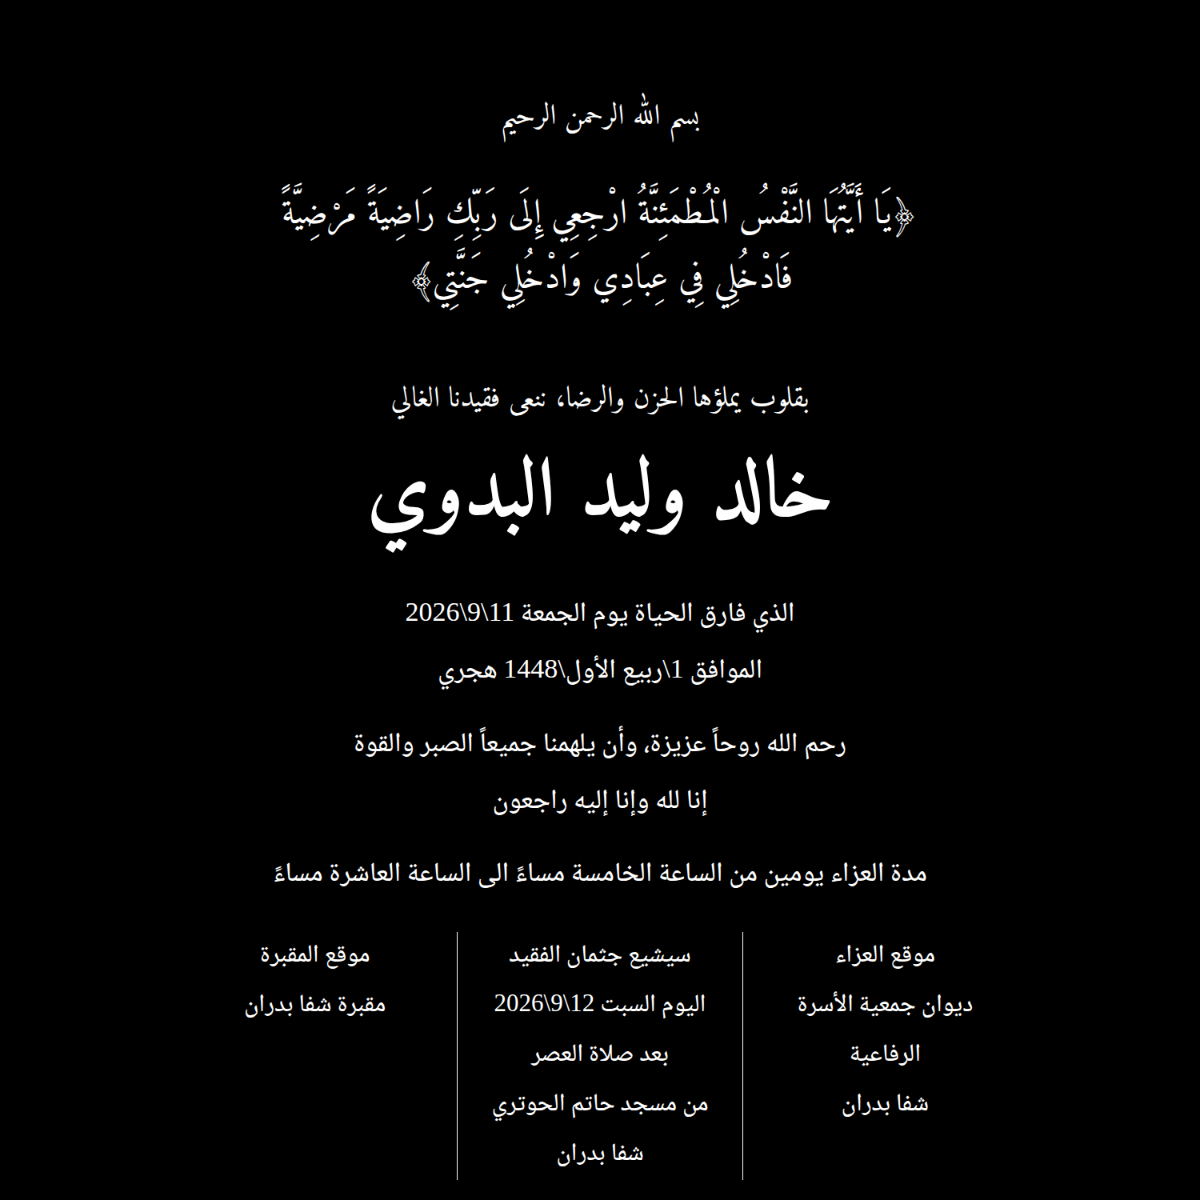
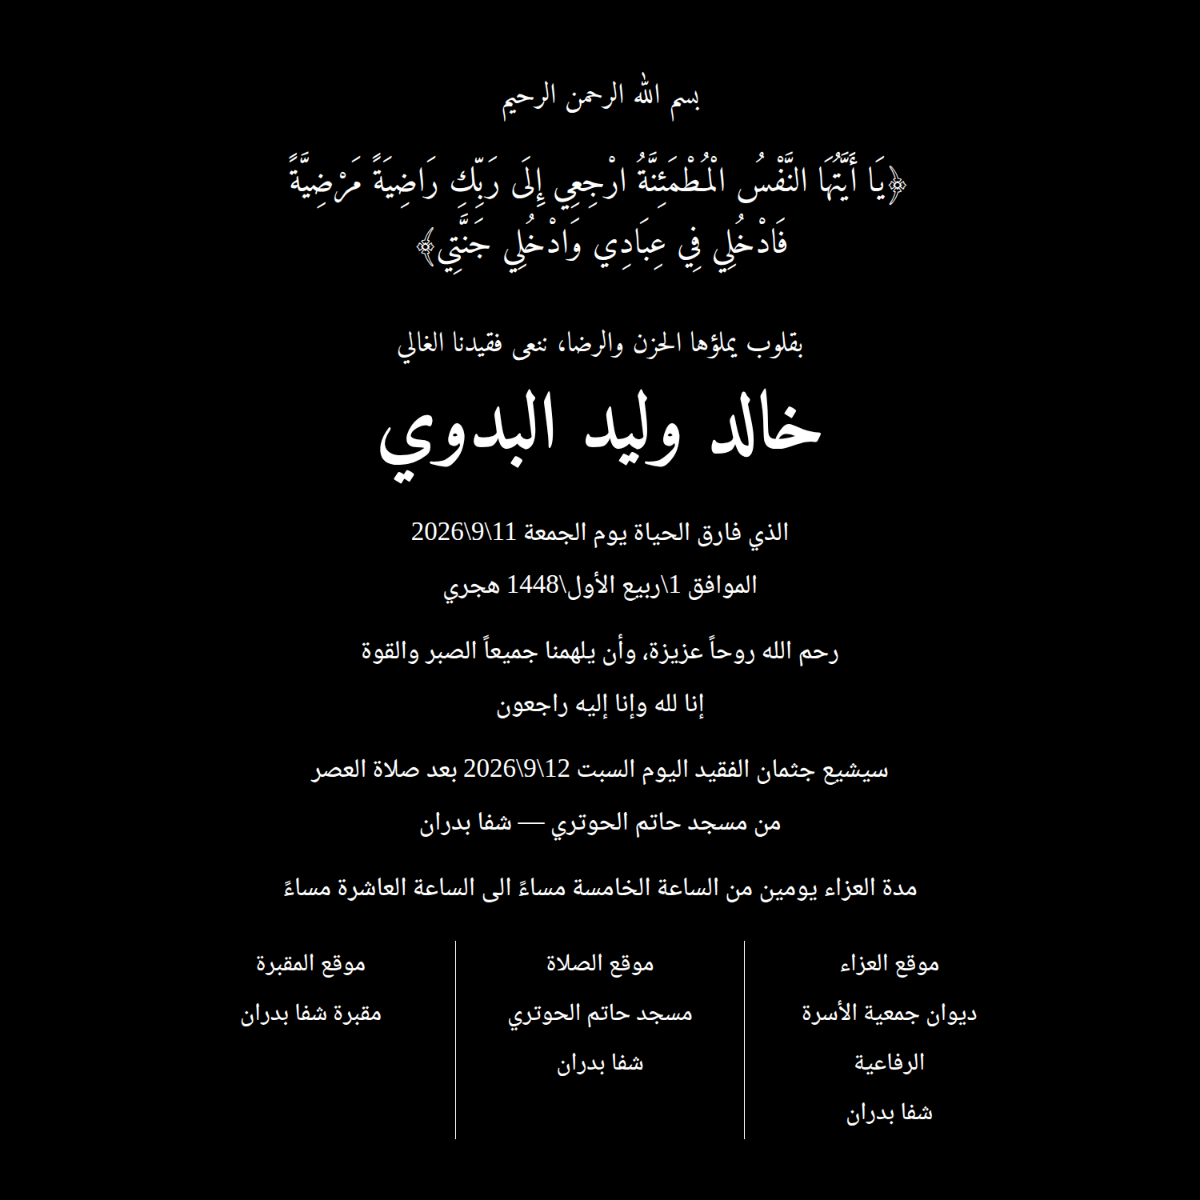
Move the procession line above the condolence hours
The procession is today, so it now reads as its own line in the body of
the card, just before the condolence hours, instead of sitting in the
bottom columns. The middle column becomes the prayer location, keeping
the three venues side by side, and the spacing is tightened so the block
still fits the card.

Claude-Session: https://claude.ai/code/session_01EyBEKd24a4krTEm4YGB4N2

Changed region(s): [[0.185, 0.0617, 0.8325, 0.9558], [0.4625, 0.9558, 0.5242, 0.9867]]

diff --git a/maps/index.html b/maps/index.html
@@ -14,8 +14,8 @@
   <meta property="og:url" content="https://www.wbadawi.info/maps/">
   <meta property="og:locale" content="ar_JO">
   <!-- صورة المعاينة عند مشاركة الرابط (واتساب وغيره) — مربّعة 1200×1200 لتظهر البطاقة كاملة -->
-  <meta property="og:image" content="https://www.wbadawi.info/assets/img/naei/khalid-albadawi-og.png?v=3">
-  <meta property="og:image:secure_url" content="https://www.wbadawi.info/assets/img/naei/khalid-albadawi-og.png?v=3">
+  <meta property="og:image" content="https://www.wbadawi.info/assets/img/naei/khalid-albadawi-og.png?v=4">
+  <meta property="og:image:secure_url" content="https://www.wbadawi.info/assets/img/naei/khalid-albadawi-og.png?v=4">
   <meta property="og:image:type" content="image/png">
   <meta property="og:image:width" content="1200">
   <meta property="og:image:height" content="1200">
@@ -23,8 +23,8 @@
   <meta name="twitter:card" content="summary_large_image">
   <meta name="twitter:title" content="المرحوم خالد وليد البدوي">
   <meta name="twitter:description" content="إنا لله وإنا إليه راجعون — مواعيد التشييع والعزاء ومواقع المسجد والمقبرة والديوان.">
-  <meta name="twitter:image" content="https://www.wbadawi.info/assets/img/naei/khalid-albadawi-og.png?v=3">
-  <link rel="image_src" href="https://www.wbadawi.info/assets/img/naei/khalid-albadawi-og.png?v=3">
+  <meta name="twitter:image" content="https://www.wbadawi.info/assets/img/naei/khalid-albadawi-og.png?v=4">
+  <link rel="image_src" href="https://www.wbadawi.info/assets/img/naei/khalid-albadawi-og.png?v=4">
   <link rel="canonical" href="https://www.wbadawi.info/maps/">
   <link rel="preconnect" href="https://fonts.googleapis.com">
   <link rel="preconnect" href="https://fonts.gstatic.com" crossorigin>
@@ -327,9 +327,9 @@
 
     <section class="notice reveal">
       <h1 class="sr-only">نعي المرحوم خالد وليد البدوي</h1>
-      <a class="notice__card" href="/assets/img/naei/khalid-albadawi.png?v=3">
+      <a class="notice__card" href="/assets/img/naei/khalid-albadawi.png?v=4">
         <img
-          src="/assets/img/naei/khalid-albadawi.png?v=3"
+          src="/assets/img/naei/khalid-albadawi.png?v=4"
           width="1200" height="1500" fetchpriority="high"
           alt="بسم الله الرحمن الرحيم. ﴿يا أيتها النفس المطمئنة ارجعي إلى ربك راضية مرضية فادخلي في عبادي وادخلي جنتي﴾. بقلوب يملؤها الحزن والرضا، ننعى فقيدنا الغالي خالد وليد البدوي، الذي فارق الحياة يوم الجمعة 11/9/2026 الموافق 1 ربيع الأول 1448 هجري. رحم الله روحاً عزيزة، وأن يلهمنا جميعاً الصبر والقوة. إنا لله وإنا إليه راجعون. مدة العزاء يومين من الساعة الخامسة مساءً إلى الساعة العاشرة مساءً. موقع العزاء: ديوان جمعية الأسرة الرفاعية، شفا بدران. سيشيع جثمان الفقيد اليوم السبت 12/9/2026 بعد صلاة العصر من مسجد حاتم الحوتري، شفا بدران. موقع المقبرة: مقبرة شفا بدران.">
       </a>
